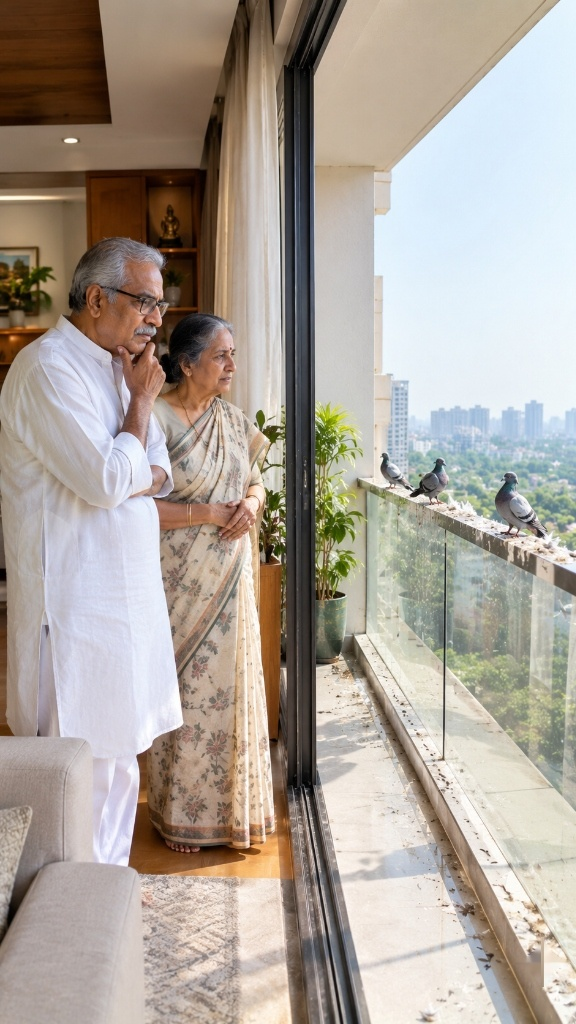
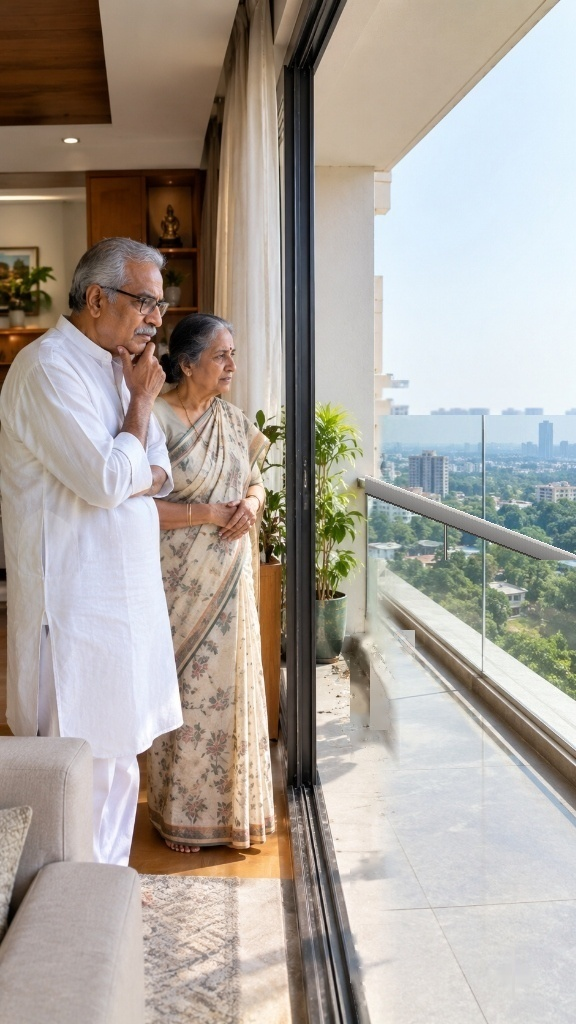
updated

diff --git a/src/components/HorizontalProblemSlider.tsx b/src/components/HorizontalProblemSlider.tsx
@@ -101,12 +101,12 @@ export const SHOWCASE_8_CARDS: ShowcaseCard[] = [
     type: 'problem',
     category: 'SENIOR CITIZENS',
     tag: '07 • PROBLEM',
-    badge: '⚠ ANXIETY: VERTIGO & RUSTED CAGES',
-    title: 'Senior Anxiety & Vertigo',
-    subtitle: 'Fear of Heights & Rusted Railing Shaking',
-    image: '/images/before-elder-pigeons.jpg',
-    description: 'Dark rusted bars make high-rise balconies look grim and unsafe. Weak, rattling railings trigger severe dizziness, vertigo, and anxiety for grandparents.',
-    bullet: 'Elders feel confined indoors, avoiding balcony spaces completely.',
+    badge: '⚠ ACROPHOBIA: FEAR OF HEIGHTS & VERTIGO',
+    title: 'Senior Balcony Vertigo & Fear of Heights',
+    subtitle: 'Dizziness at Balcony Edge & Fear of Falling',
+    image: '/images/before-elder-height-vertigo.jpg',
+    description: 'High-floor elevations trigger severe dizziness, vertigo, and acrophobia for elderly grandparents. Looking over low open railings induces constant anxiety, making seniors feel unsafe and terrified of losing balance.',
+    bullet: 'Elders avoid the balcony completely, trapped indoors in fear of dangerous heights.',
   },
   // 8. Old Age Solution
   {
@@ -114,12 +114,12 @@ export const SHOWCASE_8_CARDS: ShowcaseCard[] = [
     type: 'solution',
     category: 'SENIOR CITIZENS',
     tag: '08 • D-VIEW SOLUTION',
-    badge: '🛡 PEACEFUL SUNLIT RETIREMENT',
-    title: 'Senior Citizens Comfort',
-    subtitle: 'Solid High-Tension Structural Security',
+    badge: '🛡 100% PEACEFUL RETIREMENT & VERTIGO RELIEF',
+    title: 'Senior Comfort & Fall Protection',
+    subtitle: 'Floor-to-Ceiling SS-316 High-Tension Barrier',
     image: '/images/after-elderly-peace.jpg',
-    description: 'Rigidly anchored SS-316 vertical cables provide reassuring structural tension. Grandparents can lean safely, sip morning tea, and read newspapers with peace of mind.',
-    bullet: 'Relaxed outdoor living with zero fear and 100% structural security.',
+    description: 'Rigidly tensioned floor-to-ceiling SS-316 cables create a secure, transparent barrier that completely eliminates vertigo and fear of heights. Grandparents can safely lean, sit, sip morning tea, and read newspapers with total peace of mind.',
+    bullet: 'Full psychological comfort & zero fall risk—grandparents enjoy fresh air without fear.',
   },
 
   // 9. Fire Emergency Trap Problem (MS Grills)
